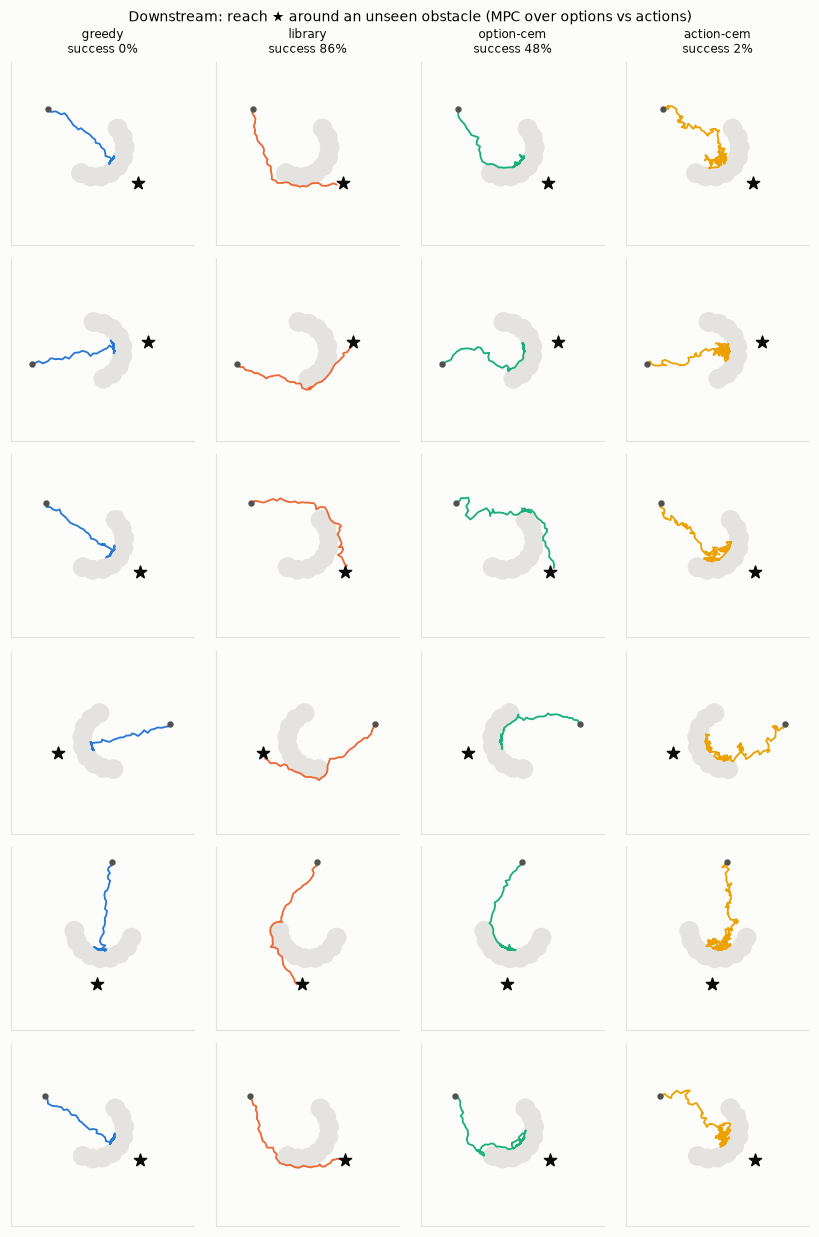
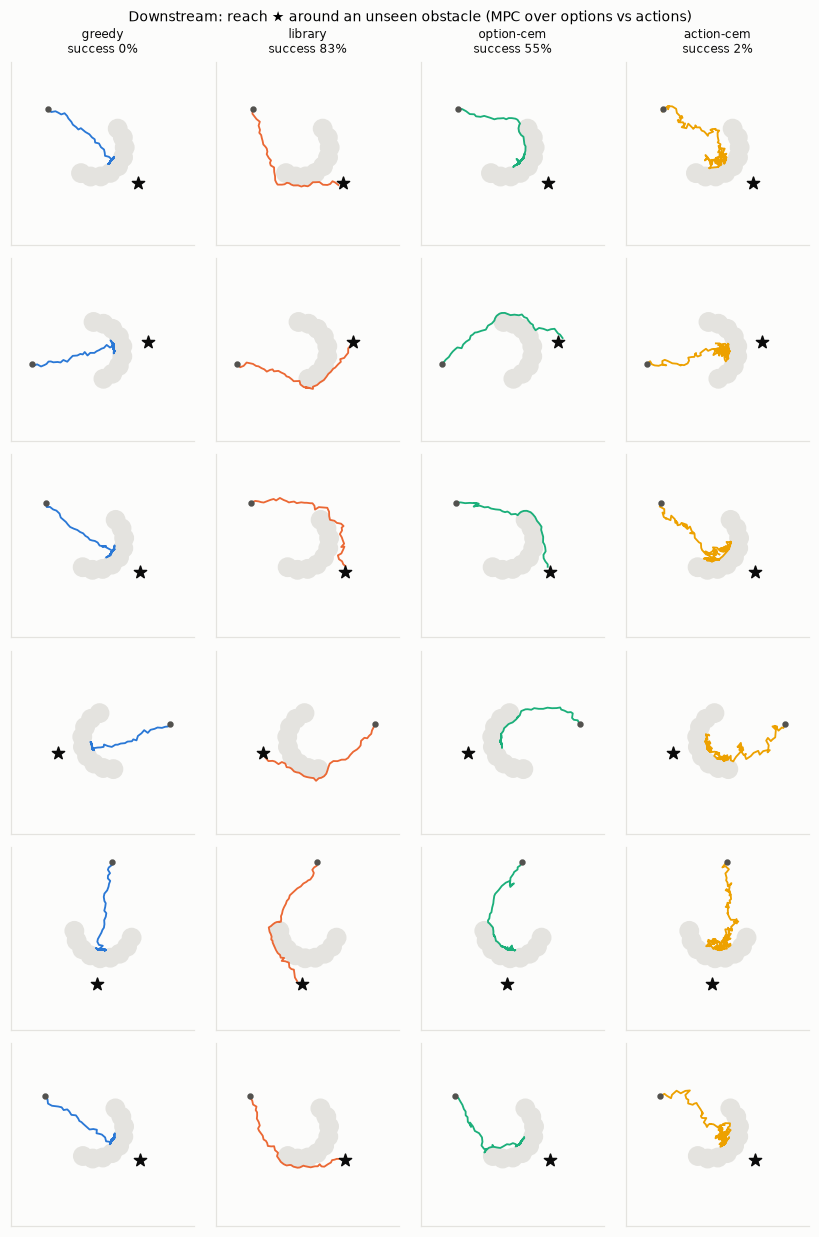
Re-run the main seeds on the final code and update the write-up
The three 10k-step seeds behind the paper's main results had been
trained before the Newton tie-breaking fix and the switch to 8
iterations. Re-running them on the current code moves nothing beyond
noise: NMI 1.000, recognition 0.895 at one step (Bayes 0.902), KL
0.050, composition 4.5° and weighted composition 5.1°, tracking 0.962
(99.4% of the Bayes filter). Planning around the unseen cup now reads
85% for the option library and 46% for CEM over options, against 1.6%
for raw actions.

The paper and README quote the new numbers, the figures come from the
new seed 0, and the appendix caveat now names only the runs that still
predate the solver fixes.

diff --git a/README.md b/README.md
@@ -62,16 +62,16 @@ Default preset (`jem`), 10k steps, 3 seeds, about 6–7 minutes per run on a DGX
 | | |
 |---|---|
 | Options rediscovered without labels (NMI of clustered z vs hidden expert) | 1.00 |
-| Recognition accuracy from 1 / 2 / 4 / 8 steps (Bayes rate on the same snippets: 0.90 / 0.97 / 1.00 / 1.00) | 0.89 / 0.97 / 1.00 / 1.00 |
+| Recognition accuracy from 1 / 2 / 4 / 8 steps (Bayes rate on the same snippets: 0.902 / 0.974 / 0.999 / 1.000) | 0.895 / 0.966 / 0.996 / 1.000 |
 | Policy KL(expert ‖ option), nats | 0.05 |
-| Zero-shot composition z_i + z_j vs the exact product of experts | 4.6° heading error |
-| Weighted composition z_i + w z_j, w ∈ {¼, ½, 2, 4} | 4.8° heading error |
-| Online tracking of hidden option switches (HMM over the library; Bayes 0.968) | 0.963 |
+| Zero-shot composition z_i + z_j vs the exact product of experts | 4.5° heading error |
+| Weighted composition z_i + w z_j, w ∈ {¼, ½, 2, 4} | 5.1° heading error |
+| Online tracking of hidden option switches (HMM over the library; Bayes 0.968) | 0.962 |
 | Closed-loop agreement with the matched expert (experts' own value: 0.882) | 0.86 |
 
 Early in training, the options organize into a 2-D compass in which opposite
-behaviours are opposite vectors: cos(z_away, z_toward) ≈ −0.99 at 1k steps. Longer
-training spreads them over more dimensions (−0.62 at 10k steps), trading that clean
+behaviours are opposite vectors: cos(z_away, z_toward) ≈ −0.98 at 1k steps. Longer
+training spreads them over more dimensions (−0.59 at 10k steps), trading that clean
 geometry for a sharper fit.
 
 ![compositions](docs/figures/compositions.png)
@@ -87,8 +87,8 @@ target gets trapped every time.
 |---|---|
 | always "toward" | 0% |
 | CEM over raw action sequences | 2% |
-| CEM over the continuous option space | 47% |
-| best of the discovered options and their pairwise sums | **88%** |
+| CEM over the continuous option space | 46% |
+| best of the discovered options and their pairwise sums | **85%** |
 
 ![downstream](docs/figures/downstream_cup.png)
 
